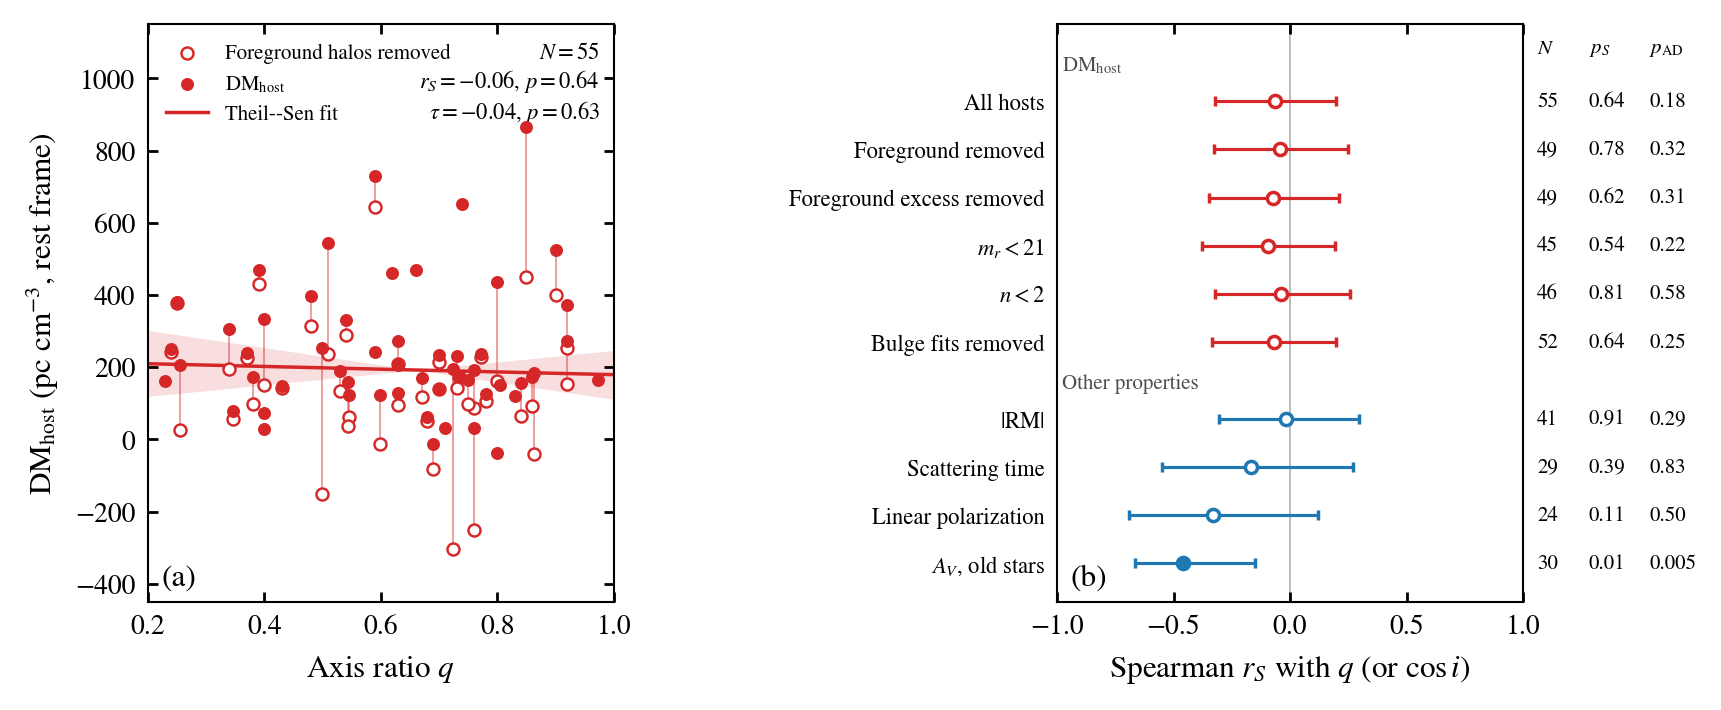
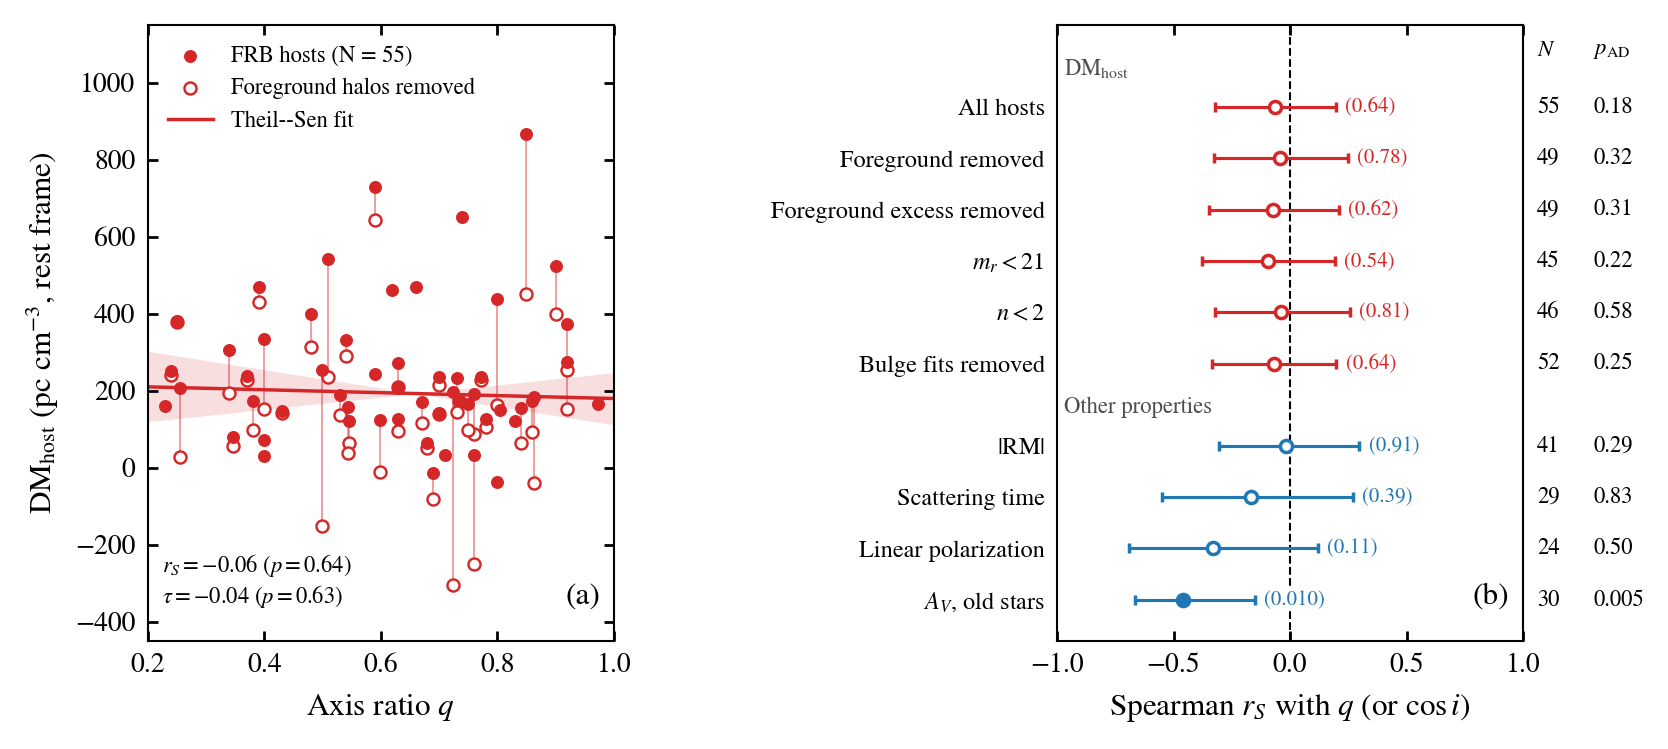
Fig 3: match figure conventions, Spearman p beside each point

diff --git a/scripts/plot_correlation_figure.py b/scripts/plot_correlation_figure.py
@@ -37,9 +37,9 @@ def panel_a(ax, h: pd.DataFrame) -> None:
     yc = d.dm_host_fg.to_numpy(float)
     has = np.isfinite(yc) & (np.abs(yc - y) > 1)
     ax.vlines(x[has], yc[has], y[has], color=P.FRB_C, lw=0.5, alpha=0.5, zorder=2)
+    ax.scatter(x, y, s=14, color=P.FRB_C, lw=0, zorder=4, label=f"FRB hosts (N = {len(x)})")
     ax.scatter(x[has], yc[has], s=12, facecolor="white", edgecolor=P.FRB_C, lw=0.7, zorder=3,
                label="Foreground halos removed")
-    ax.scatter(x, y, s=14, color=P.FRB_C, lw=0, zorder=4, label=r"DM$_{\rm host}$")
     ts = stats.theilslopes(y, x, alpha=0.95)
     xx = np.linspace(0.2, 1.0, 50)
     xm, ym = np.median(x), np.median(y)
@@ -48,15 +48,15 @@ def panel_a(ax, h: pd.DataFrame) -> None:
     ax.plot(xx, ts.intercept + ts.slope * xx, color=P.FRB_C, lw=1.0, zorder=2, label="Theil--Sen fit")
     rs = stats.spearmanr(x, y)
     tau = stats.kendalltau(x, y)
-    ax.text(0.97, 0.97, f"$N = {len(x)}$\n$r_S = {rs[0]:.2f}$, $p = {rs[1]:.2f}$\n"
-            rf"$\tau = {tau.statistic:.2f}$, $p = {tau.pvalue:.2f}$",
-            transform=ax.transAxes, ha="right", va="top", fontsize=6.5)
+    ax.text(0.03, 0.05, f"$r_S = {rs[0]:.2f}$ ($p = {rs[1]:.2f}$)\n"
+            rf"$\tau = {tau.statistic:.2f}$ ($p = {tau.pvalue:.2f}$)",
+            transform=ax.transAxes, ha="left", va="bottom", fontsize=6.5)
     ax.set_xlim(0.2, 1.0)
     ax.set_ylim(-450, 1150)
     ax.set_xlabel(r"Axis ratio $q$")
     ax.set_ylabel(r"DM$_{\rm host}$ (pc cm$^{-3}$, rest frame)")
-    ax.legend(loc="upper left", frameon=False, fontsize=6)
-    ax.text(0.03, 0.03, "(a)", transform=ax.transAxes, fontsize=9)
+    ax.legend(loc="upper left", frameon=False, fontsize=6.5)
+    ax.text(0.97, 0.05, "(a)", transform=ax.transAxes, ha="right", va="bottom", fontsize=9)
 
 
 def panel_b(ax, rob: pd.DataFrame) -> None:
@@ -76,29 +76,32 @@ def panel_b(ax, rob: pd.DataFrame) -> None:
         filled = s.p_S < 0.05
         ax.errorbar(s.r_S, yy, xerr=[[s.r_S - s.rS_boot_lo], [s.rS_boot_hi - s.r_S]], fmt="o", ms=3.5, color=col,
                     mfc=col if filled else "white", lw=0.9, capsize=1.5, zorder=3)
-        ax.text(1.03, yy, f"{int(s.N)}", transform=ax.get_yaxis_transform(), va="center", fontsize=6)
-        for xt, p in ((1.14, s.p_S), (1.27, s.p_AD)):
-            ax.text(xt, yy, f"{p:.2f}" if p >= 0.01 else f"{p:.3f}", transform=ax.get_yaxis_transform(),
-                    va="center", fontsize=6)
-    ax.axvline(0, color="0.7", lw=0.5, zorder=1)
+        ax.text(s.rS_boot_hi + 0.04, yy, f"({fmt_p(s.p_S)})", va="center", ha="left", fontsize=6, color=col,
+                zorder=4, bbox=dict(facecolor="white", edgecolor="none", pad=0.4))
+        ax.text(1.03, yy, f"{int(s.N)}", transform=ax.get_yaxis_transform(), va="center", fontsize=6.5)
+        ax.text(1.15, yy, fmt_p(s.p_AD), transform=ax.get_yaxis_transform(), va="center", fontsize=6.5)
+    ax.axvline(0, color="k", ls="--", lw=0.6, zorder=1)
     ax.set_yticks(y)
-    ax.set_yticklabels([row[0] for row in rows], fontsize=6.5)
-    ax.text(1.03, y.max() + 0.9, "$N$", transform=ax.get_yaxis_transform(), va="bottom", fontsize=6)
-    ax.text(1.14, y.max() + 0.9, "$p_S$", transform=ax.get_yaxis_transform(), va="bottom", fontsize=6)
-    ax.text(1.27, y.max() + 0.9, r"$p_{\rm AD}$", transform=ax.get_yaxis_transform(), va="bottom", fontsize=6)
+    ax.set_yticklabels([row[0] for row in rows], fontsize=7)
+    ax.text(1.03, y.max() + 0.9, "$N$", transform=ax.get_yaxis_transform(), va="bottom", fontsize=6.5)
+    ax.text(1.15, y.max() + 0.9, r"$p_{\rm AD}$", transform=ax.get_yaxis_transform(), va="bottom", fontsize=6.5)
     ax.set_ylim(y.min() - 0.8, y.max() + 1.6)
     ax.set_xlim(-1, 1)
     ax.set_xlabel(r"Spearman $r_S$ with $q$ (or $\cos i$)")
-    ax.text(-0.98, y[0] + 0.75, r"DM$_{\rm host}$", fontsize=6, color="0.3", va="center")
-    ax.text(-0.98, y[n_dm] + 0.75, "Other properties", fontsize=6, color="0.3", va="center")
-    ax.tick_params(axis="y", length=0)
-    ax.text(0.03, 0.03, "(b)", transform=ax.transAxes, fontsize=9)
+    ax.text(-0.97, y[0] + 0.75, r"DM$_{\rm host}$", fontsize=6.5, color="0.3", va="center")
+    ax.text(-0.97, y[n_dm] + 0.75, "Other properties", fontsize=6.5, color="0.3", va="center")
+    ax.tick_params(axis="y", which="both", left=False, right=False)
+    ax.text(0.97, 0.05, "(b)", transform=ax.transAxes, ha="right", va="bottom", fontsize=9)
+
+
+def fmt_p(p: float) -> str:
+    return f"{p:.2f}" if p >= 0.1 else f"{p:.3f}"
 
 
 def main() -> None:
     h = R.load()
     rob = pd.read_csv(R.OUT / "robust_correlations.csv")
-    fig, axes = plt.subplots(1, 2, figsize=(7.1, 3.0), gridspec_kw={"width_ratios": [1.0, 1.0], "wspace": 0.95})
+    fig, axes = plt.subplots(1, 2, figsize=(7.1, 3.2), gridspec_kw={"width_ratios": [1.0, 1.0], "wspace": 0.95})
     panel_a(axes[0], h)
     panel_b(axes[1], rob)
     OUT.mkdir(parents=True, exist_ok=True)

diff --git a/Publication/manuscript/paper_56.tex b/Publication/manuscript/paper_56.tex
@@ -377,9 +377,10 @@ values. The solid line and shaded band show the Theil--Sen fit to the filled
 points and the 95\% range of its slope. (b) Spearman $r_S$ with bootstrap 95\%
 confidence intervals for DM$_{\rm host}$ in the full sample, after removing the
 total or the excess foreground halo contribution, and in subsamples (red), and
-for other host and burst properties (blue), with the number of hosts, the
-Spearman $p$-value, and the AD $p$-value comparing the hosts above and below
-the median $q$ at right; filled symbols have $p < 0.05$.}
+for other host and burst properties (blue). The Spearman $p$-value is given in
+parentheses beside each point, and filled symbols have $p < 0.05$. The columns
+at right give the number of hosts and the AD $p$-value comparing the hosts
+above and below the median $q$.}
 \label{fig:corr}
 \end{figure*}
 
